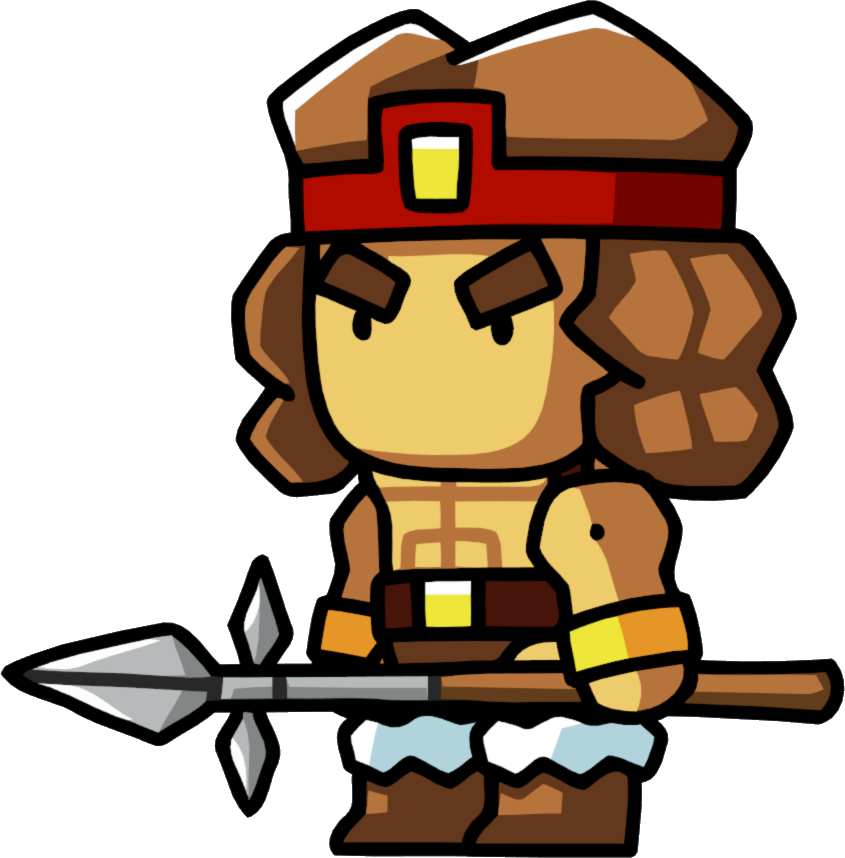
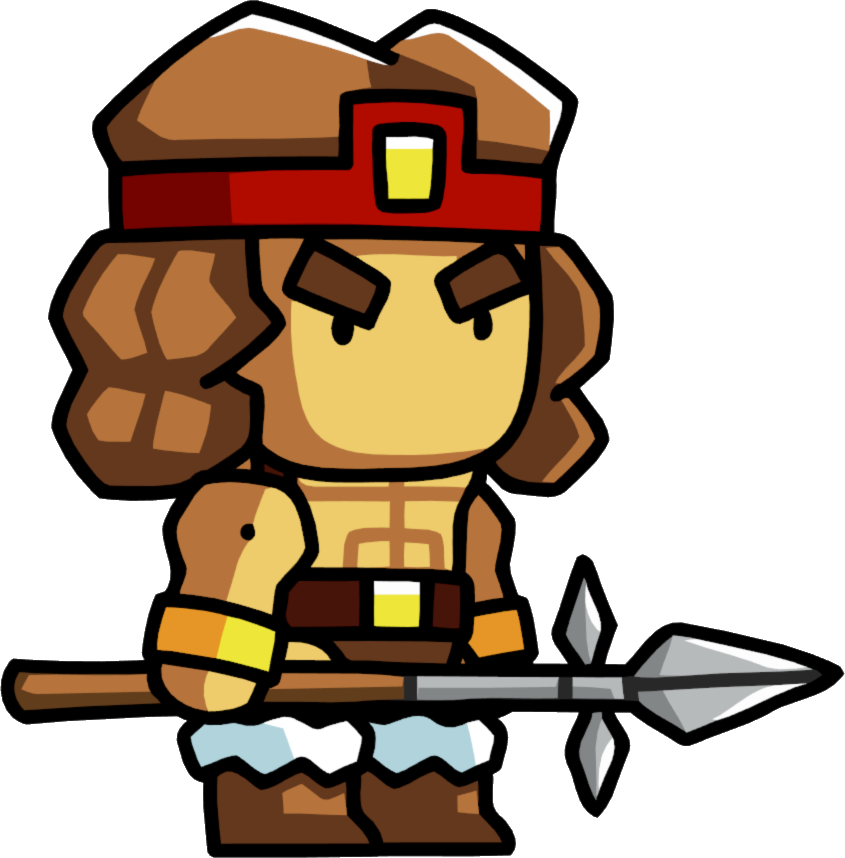
centered sprites and added a gui.hp module

diff --git a/main.py b/main.py
@@ -1,6 +1,6 @@
 import pyglet
 from pyglet.gl import *
-from game import resources, charactor
+from game import resources, charactor, gui
 
 # CREATE WINDOW OBJECT
 window = pyglet.window.Window(1000,600)
@@ -9,24 +9,23 @@ main_batch = pyglet.graphics.Batch()
 
 # Load the charactor objects
 player = charactor.Player(name='Player', img=resources.warr_image, batch=main_batch,
-                          x=510, y=0)
+                          x=200, y= 200)
 skelaton = charactor.NPC(name='Skelaton', hp=50, img=resources.skel_image, 
-                         x=window.width-200-10, y=0, batch=main_batch)
+                         x=window.width-200, y=200, batch=main_batch)
 player.target = skelaton
 skelaton.target = player
 
-objects = [player, skelaton]
 
 # Load HP indicators
-skel_hp = pyglet.text.Label(str(skelaton.hp), font_name='Times New Roman',
-                            font_size=24, x=window.width-200/2-10, 
-                            y= 350+ 10, color=(255,0,0,255),
-                            anchor_x='center', anchor_y='center')
+skel_hp = gui.HP(skelaton, batch=main_batch)
+player_hp = gui.HP(player, batch=main_batch)
 
 # Load the background image
 bg_image = pyglet.resource.image('cave.jpg')
 
 fps_display = pyglet.clock.ClockDisplay()
+
+objects = [player, skelaton, skel_hp, player_hp]
 
 for obj in objects:
     for handler in obj.event_handlers:
@@ -38,12 +37,15 @@ def on_draw():
     glBlendFunc(GL_SRC_ALPHA, GL_ONE_MINUS_SRC_ALPHA)
 
     window.clear()
-    bg_image.blit(200, -20)
+    bg_image.blit(0, -20)
 
     main_batch.draw()
 
     skel_hp.text = str(skelaton.hp)
     skel_hp.draw()
+
+    player_hp.text = str(player.hp)
+    player_hp.draw()
 
     fps_display.draw()
 

diff --git a/game/resources.py b/game/resources.py
@@ -3,6 +3,11 @@ import pyglet
 pyglet.resource.path = ['resources']
 pyglet.resource.reindex
 
+def center_image(image):
+    '''set's an image's anchor point to its center'''
+    image.anchor_x = image.width/2
+    image.anchor_y = image.height/2
+
 # LOAD IN CHARACTOR SPRITES
 # Need a more integrated way to do this
 skel_image = pyglet.resource.image('sWar.png')
@@ -12,6 +17,7 @@ skel_image.height = 350
 warr_image = pyglet.resource.image('warrior.png')
 warr_image.width = 845/3
 warr_image.height = 858/3 
-warr_image = warr_image.get_transform(flip_x=True)
+#warr_image = warr_image.get_transform(flip_x=True) #FLIPS THE IMAGE, SAVE FOR LATER
 
-
+center_image(skel_image)
+center_image(warr_image)

diff --git a/game/gui.py b/game/gui.py
@@ -1,0 +1,18 @@
+import pyglet
+
+class HP(pyglet.text.Label):
+    def __init__(self, charactor, batch):
+        super(HP, self).__init__()
+        self.charactor = charactor
+        self.font_name = 'Times New Roman'
+        self.font_size = 48
+        self.anchor_x = 'center'
+        self.anchor_y = 'center'
+        self.color = (255, 0, 0, 255)
+        self.batch = batch
+        self.event_handlers = []
+
+    def update(self, dt):
+        self.hp = self.charactor.hp
+        self.x = self.charactor.x
+        self.y = self.charactor.y + 200
